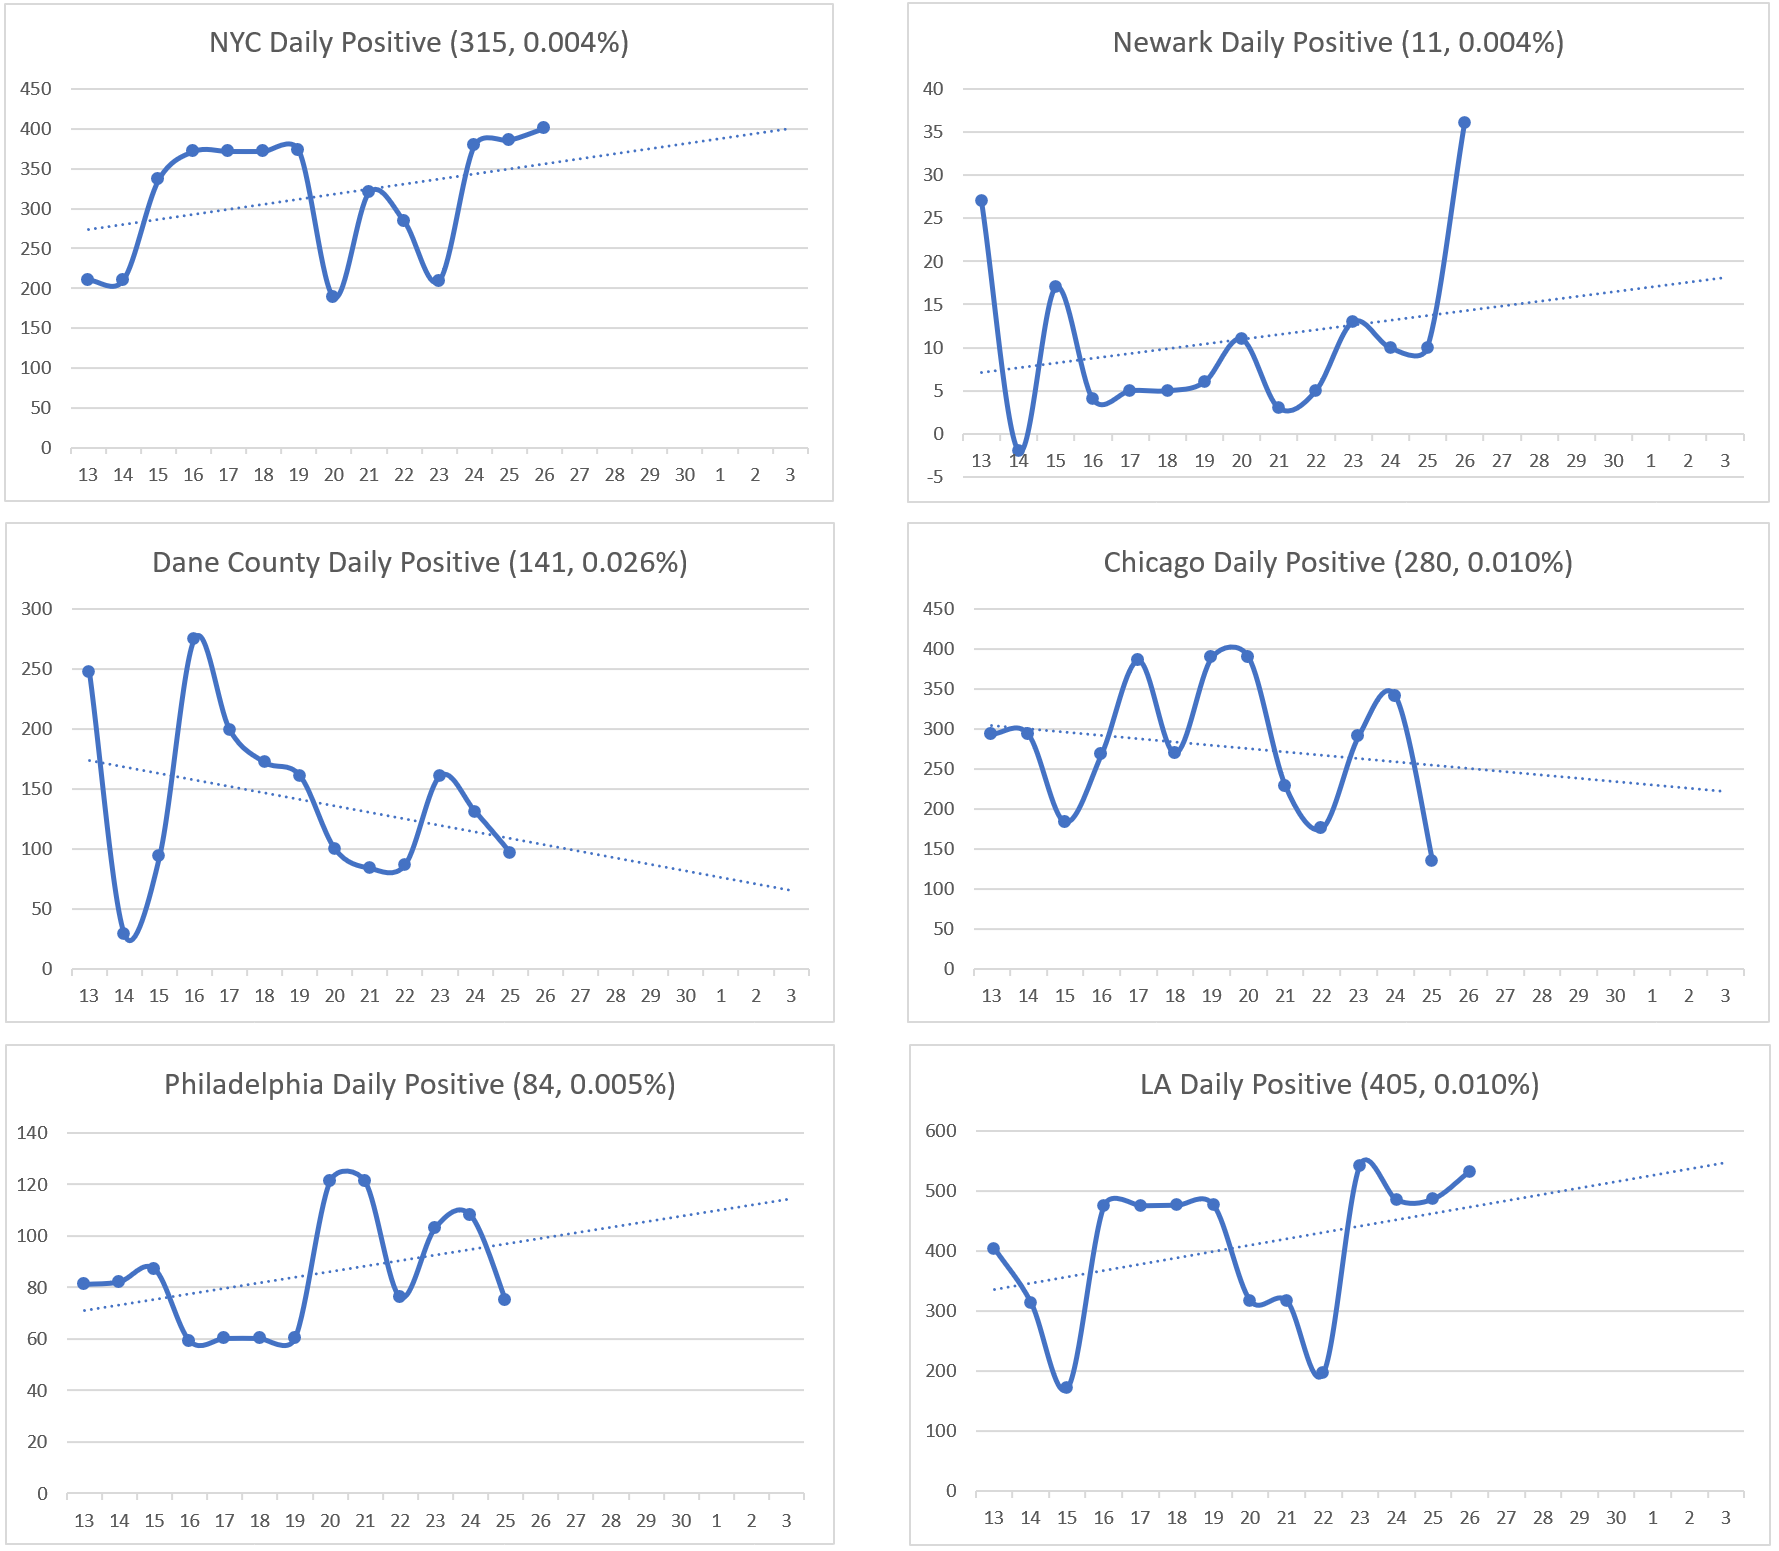
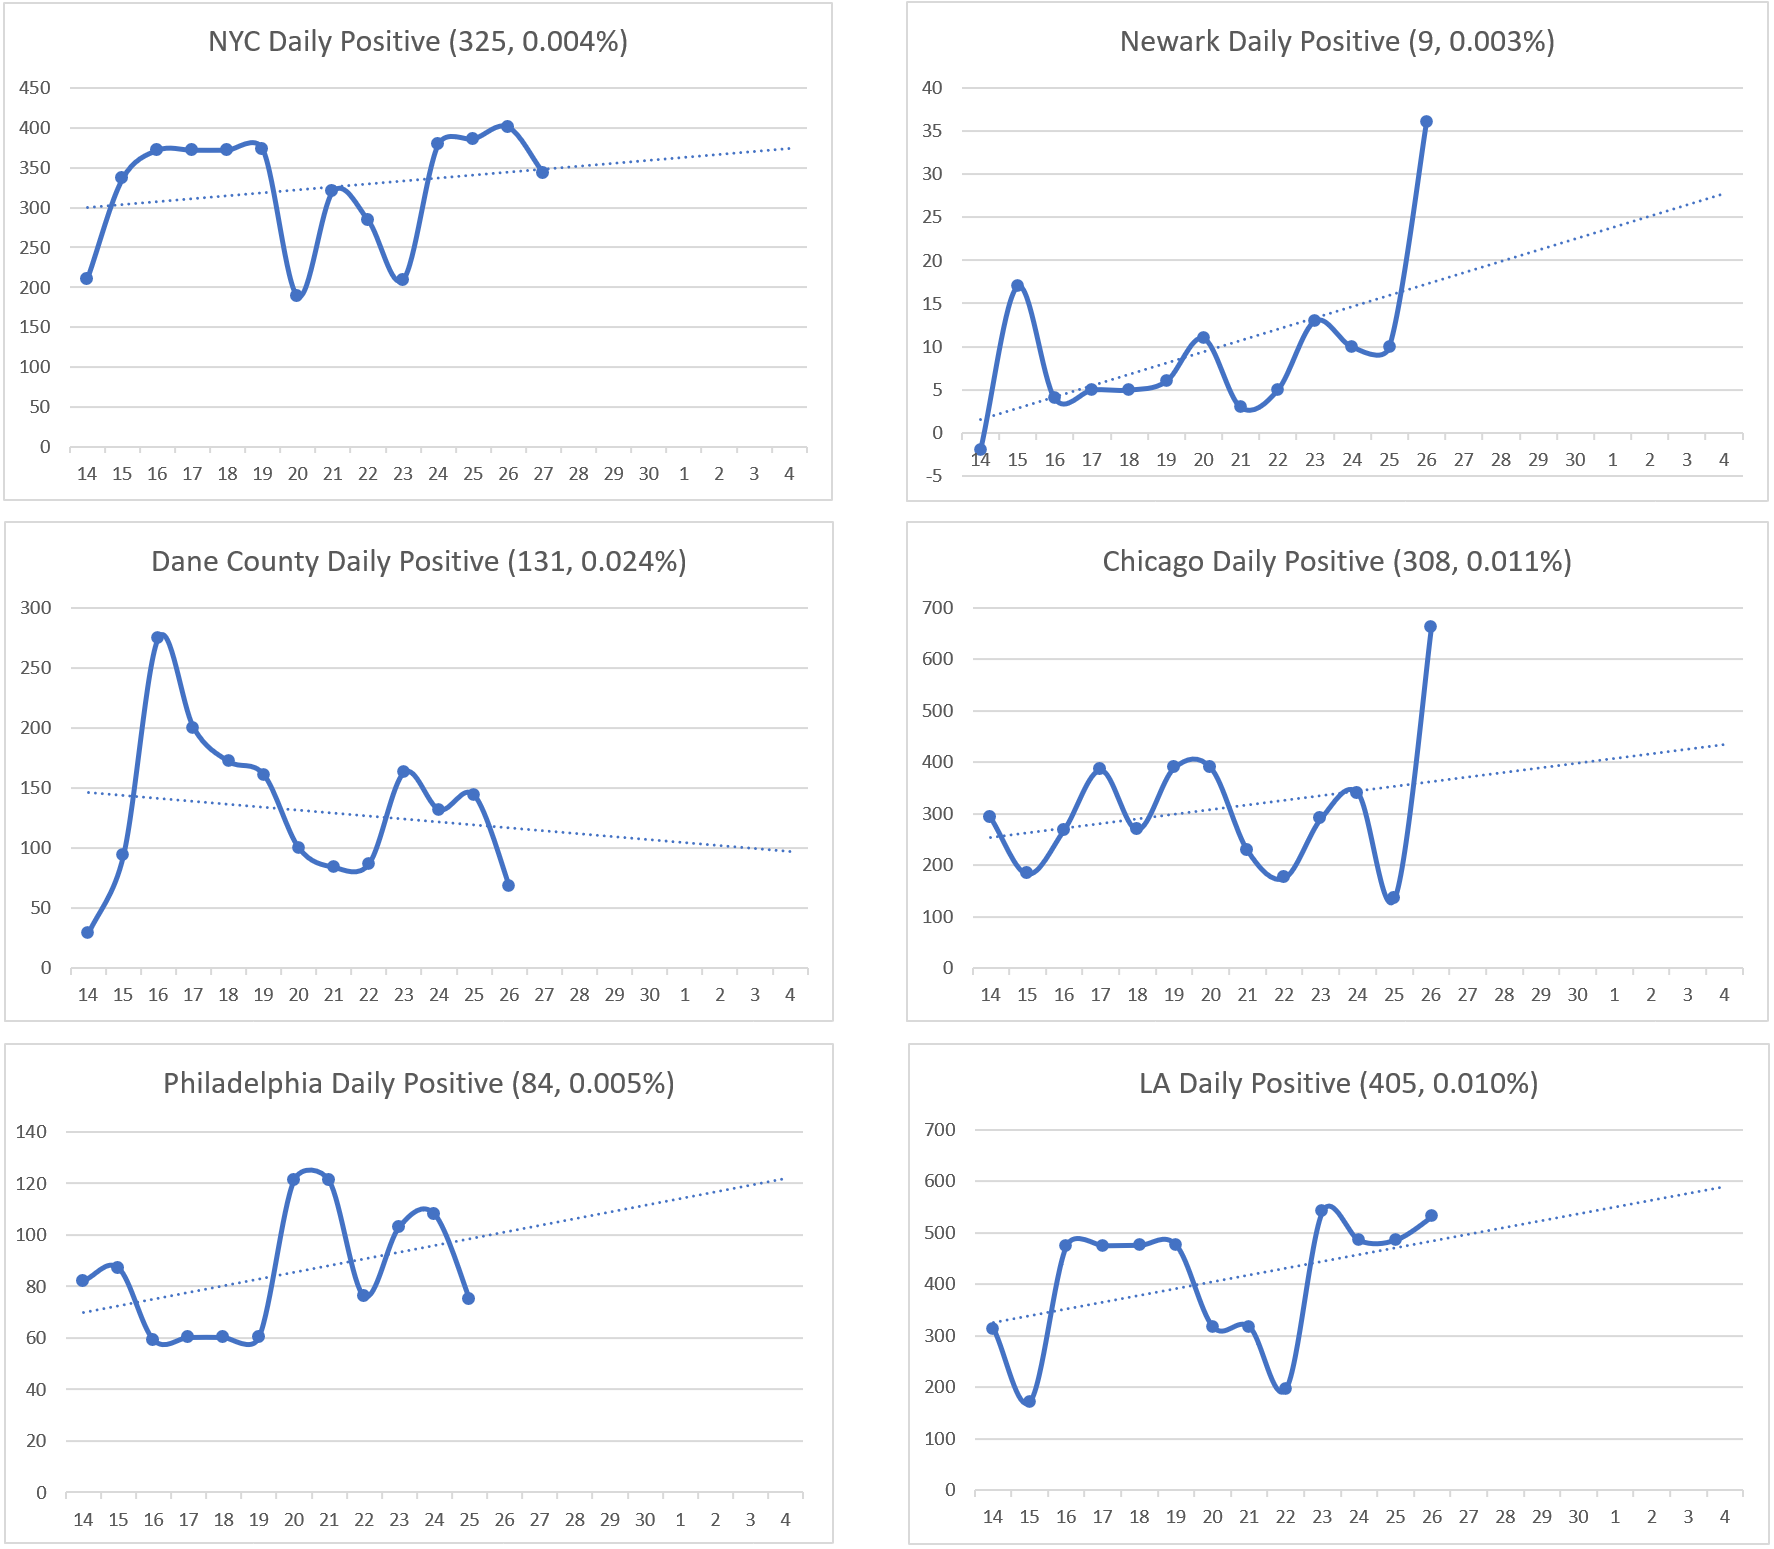
update 9/27 status

diff --git a/index.html b/index.html
@@ -19,11 +19,11 @@
 
 <body class="container-fluid">
 	<h1> CoronaV for Friends</h1>
-	<h2> Data updated at Sep 26 2020 EST 23:20</h2>
+	<h2> Data updated at Sep 27 2020 EST 19:40</h2>
 	<hr>
 	<main>
 		<div class="row">
-			<figure class="col-lg-6 col-md-6" >
+			<figure class="col-lg-6 col-md-6">
 				<figcaption class="imgTitle">City Daily Positive (AVG Pos Num, AVG Pos Num / Population)</figcaption>
 				<img class="numberInfos" src="current-graph.png" alt="currentSituation-graph.png">
 				<figcaption>* The daily count numbers for NYC, Chicago, Philadelphia will not follow "official daily count", but will be counted as the increased number of cumulative positive numbers.</figcaption>
